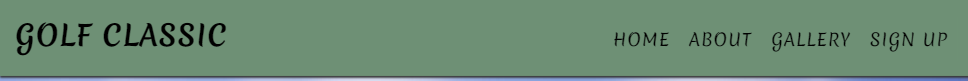
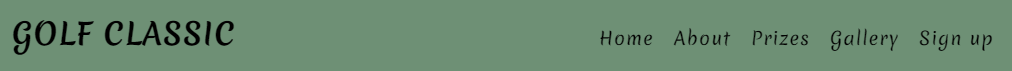
README: Updated features section with link to Prize section.

Changed region(s): [[0.5888, 0.3944, 0.9917, 0.7042], [0.0, 0.2817, 0.2479, 0.7606], [0.0, 0.9296, 1.0, 1.0]]

diff --git a/README.md b/README.md
@@ -157,11 +157,11 @@ The navigation bar is fully responsive to allow for various screen sizes. It inc
 \
 &nbsp;
 
-    - Spanning the full width of the device and with all navigational links (Home, About, Gallery, Sign up (Registration page)), this gives ease and clear use to the end user.
+    - Spanning the full width of the device and with all navigational links to Home, About, Prizes, Gallery and Sign up sections. This gives ease and clear use to the end user.
 
         ![Navigation bar](documentation/navbar_large.png)
 
-    - In order for the user to visably see which of the links they are hovering over there is a bar below the text.
+    - In order for the user to visably see which of the links they are hovering over there is a bar below the text when hovered over.
 
         ![Navigation bar on hover](documentation/navbar_large_hover.png)
 \
@@ -172,24 +172,24 @@ The navigation bar is fully responsive to allow for various screen sizes. It inc
 \
 &nbsp;
         
-    - Like the desktop this also spans the full width of the device and with all navigational links (Home, About, Gallery, Sign up (Registration page)).
+    - Like the desktop this also spans the full width of the device and with all navigational links Home, About, Prize, Gallery, Sign up sections.
 
-        ![Nav bar on iPad devices](documentation/navbar_large.png)
+        ![Nav bar on iPad devices](documentation/navbar_iPad.png)
 \
 &nbsp;
 
 
-- Phone devises (>768px)
+- Phone devises (<768px)
 \
 &nbsp;
         
     - To save screen space the navigational menu takes on the burger style.
 
-        ![Navigation bar](documentation/navbar_large_small.png)
+        ![Navigation bar](documentation/navbar_small.png)
 
-    - When pressed, it opens up the main menu with all the links available.
+    - When pressed, it opens up the main menu list with links to all sections of page..
 
-        ![Navigation bar on hover](documentation/navbar_large_small_menu.png)
+        ![Navigation bar on hover](documentation/navbar_small_menu.png)
 \
 &nbsp;
 
@@ -208,7 +208,7 @@ The navigation bar is fully responsive to allow for various screen sizes. It inc
 \
 &nbsp;
 
-    ![Landing Page](documentation/Landing_page.png)
+    ![Landing Page](/documentation/Landing_page.png)
 
 \
 &nbsp;
